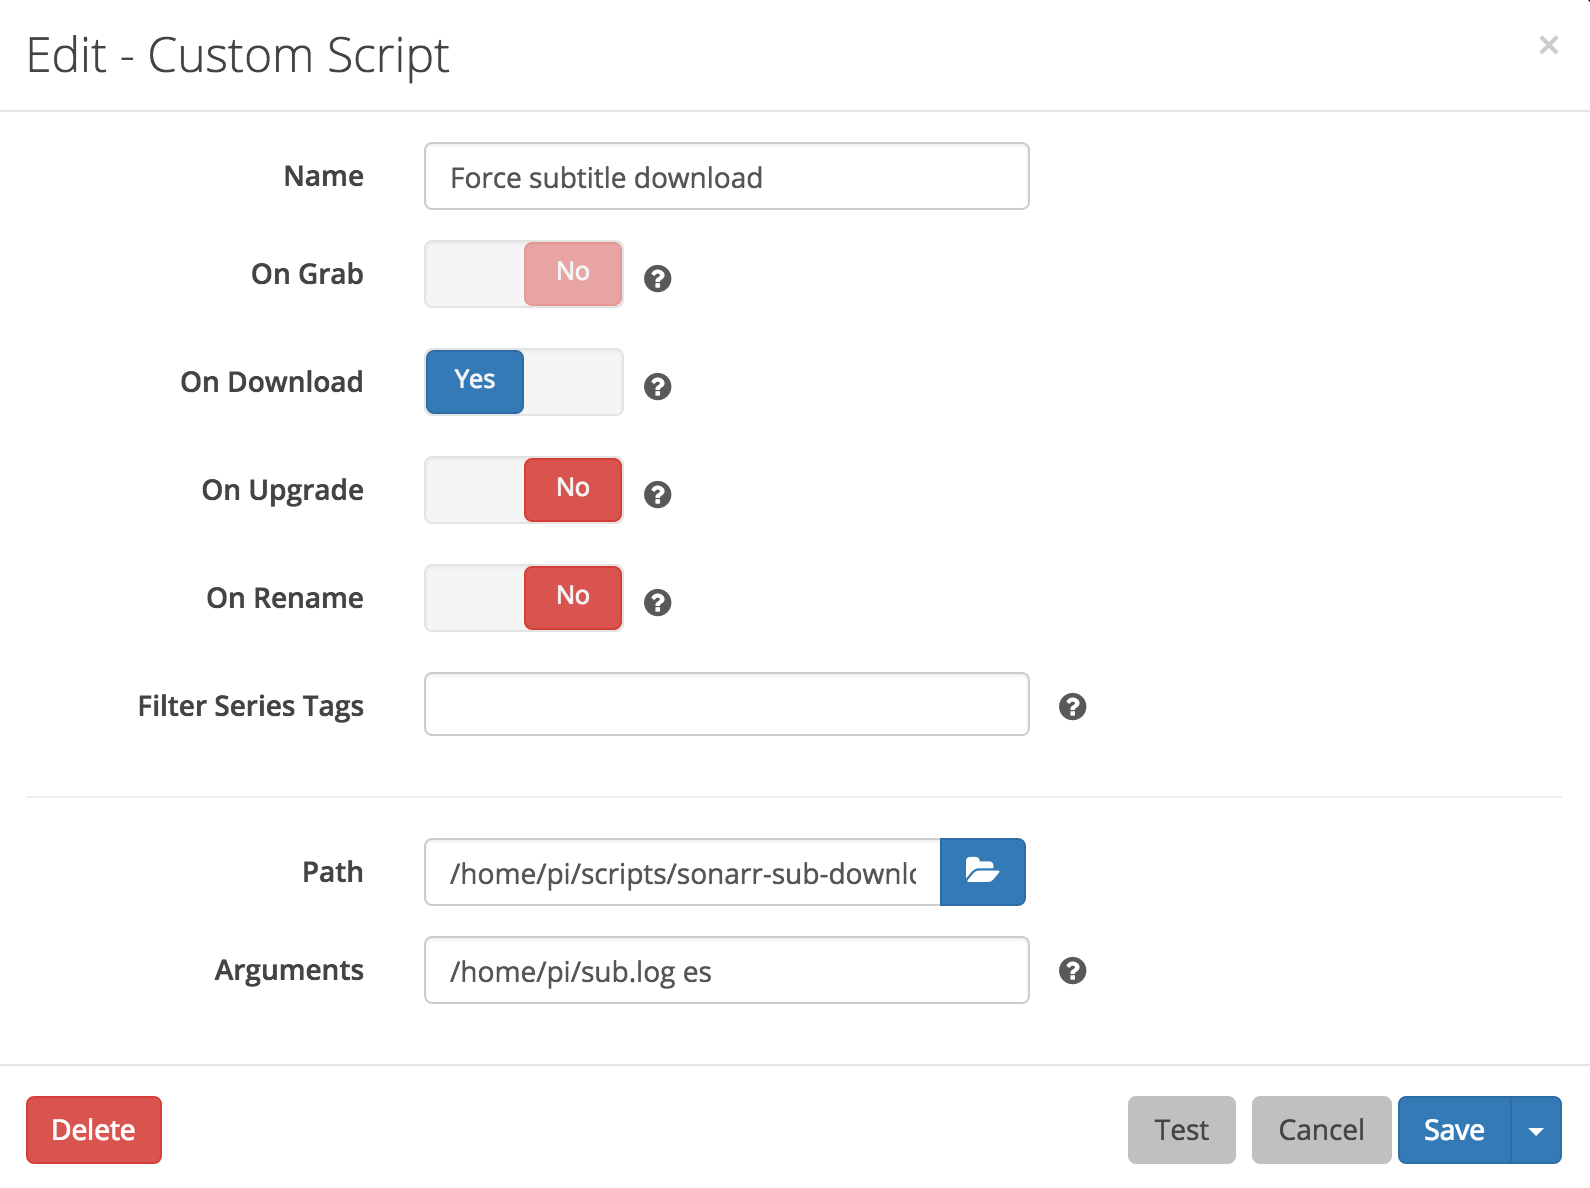
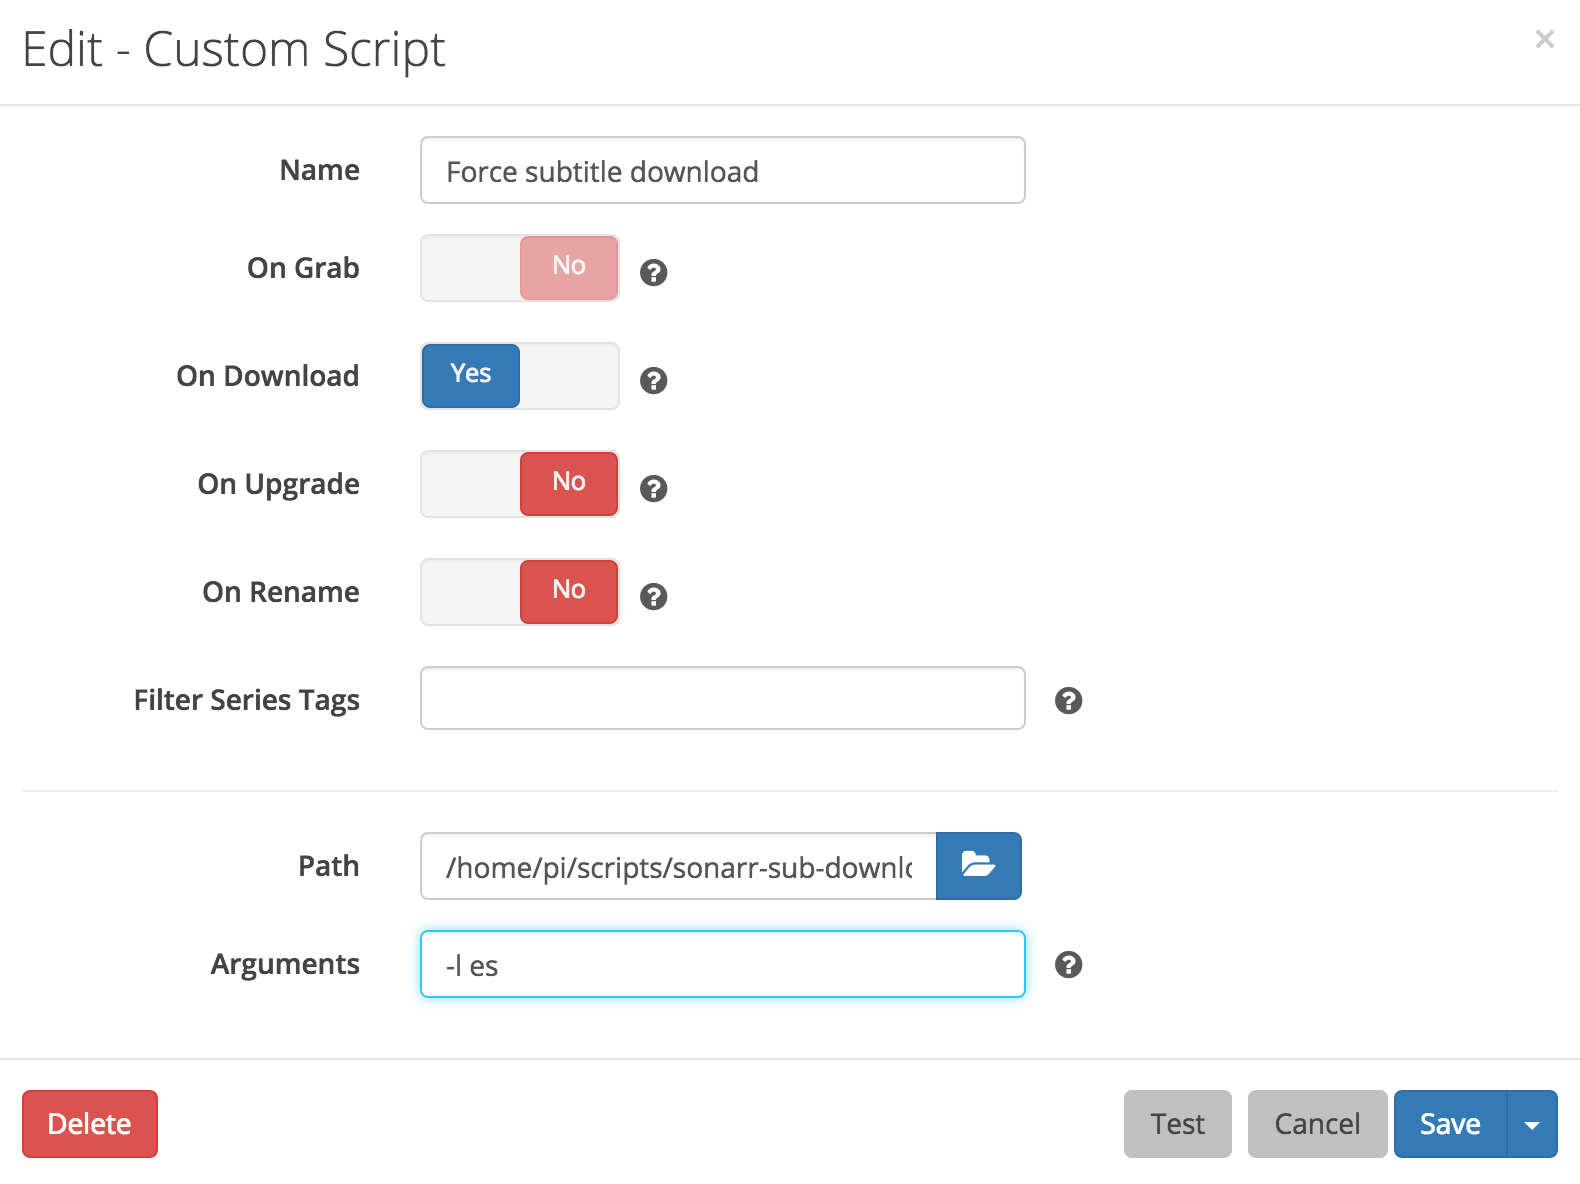
readme and example updated

diff --git a/README.md b/README.md
@@ -15,10 +15,17 @@ Behind the scenes, it uses [subliminal](3) as subtitle downloader engine.
 4. Choose a name for your script, recommended: "Subs Downloader"
 5. Enable only "On Download"
 6. Choose the path in which the script `sub-downloader` has been cloned.
-7. The script requires 2 arguments, the first one is the location of the log file and the second one is the language for the subtitles, for example: `/home/pi/sub.log es`
+7. The script requires 1 argument, a comma-separated language list for the subtitles to download, 
+   for example, for download English and Spanish subtitles: `-l es,en`
 8. How the configuration should look like
 
 ![alt example](https://raw.githubusercontent.com/ebergama/sonarr-sub-downloader/master/example/example.png)
+
+# How to update to the latest version
+```bash
+git checkout master
+git pull --rebase
+```
 
 [1]: https://github.com/Sonarr/Sonarr
 [2]: https://github.com/Sonarr/Sonarr/wiki/Custom-Post-Processing-Scripts
